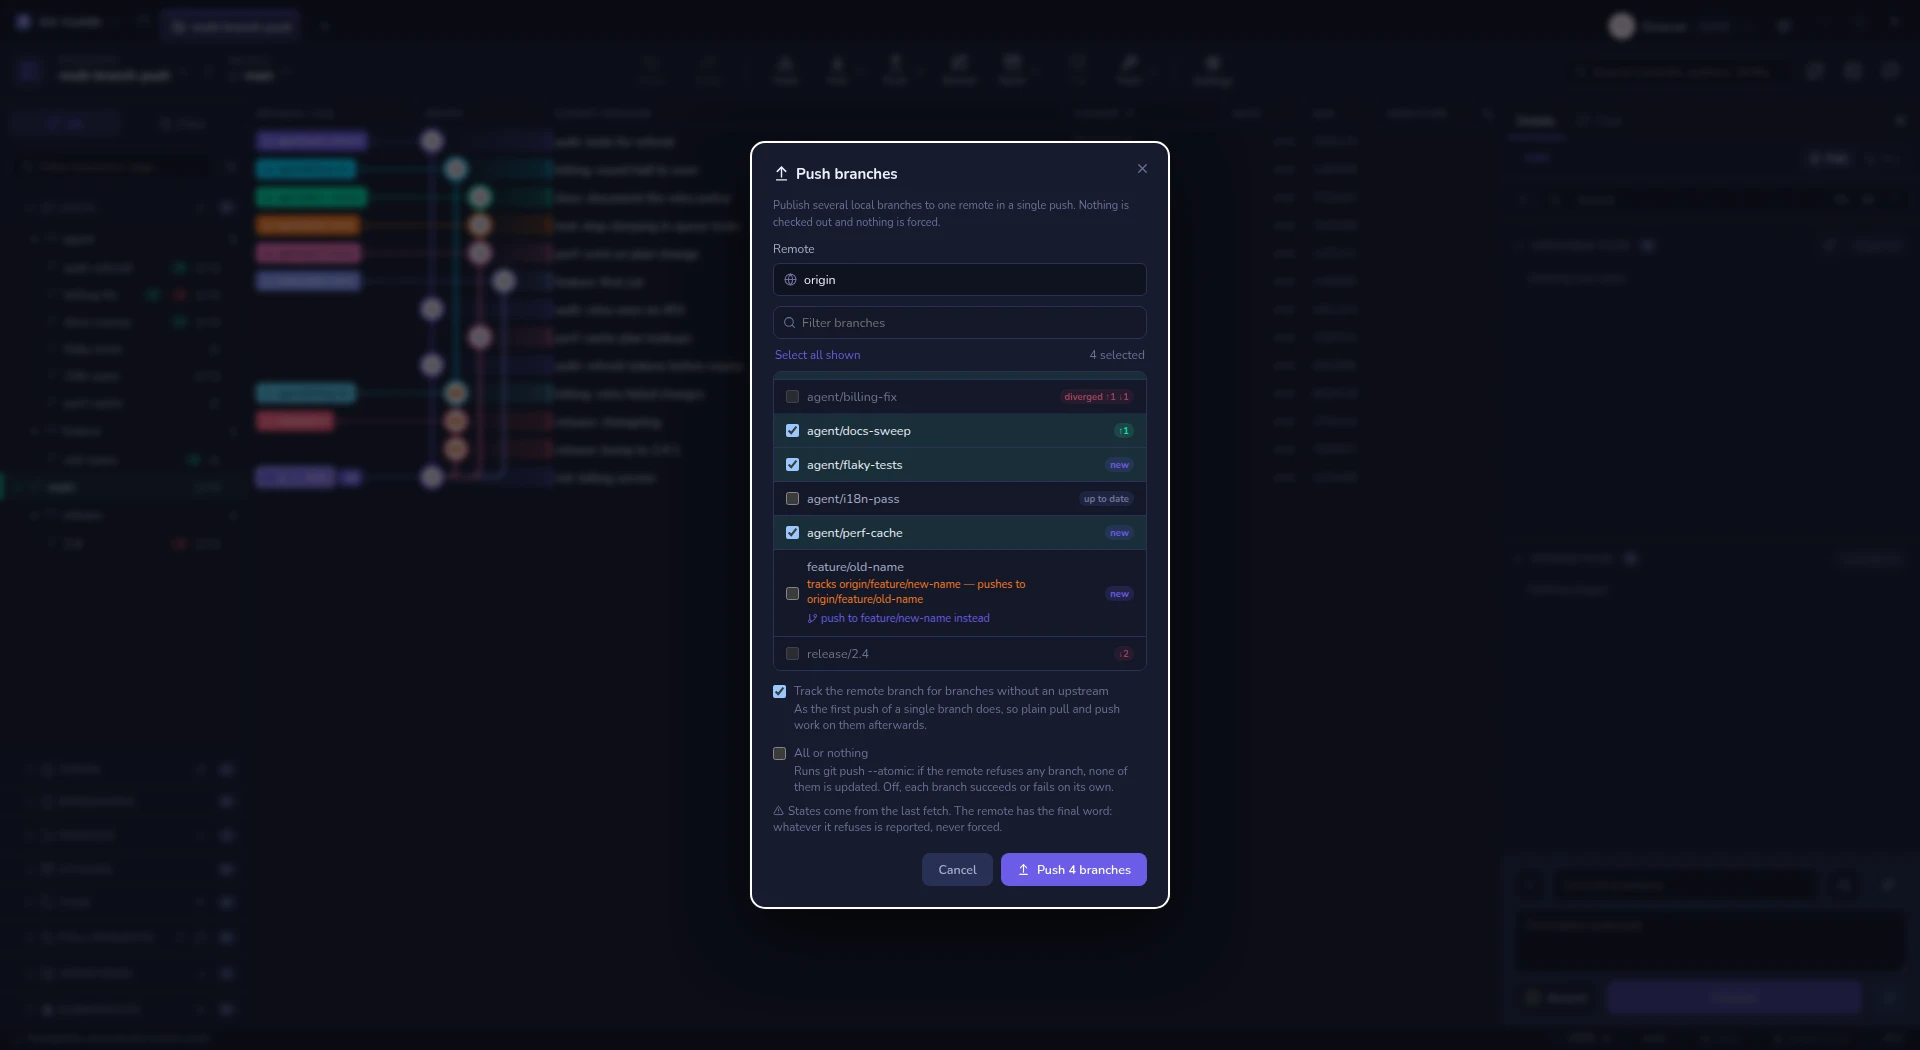
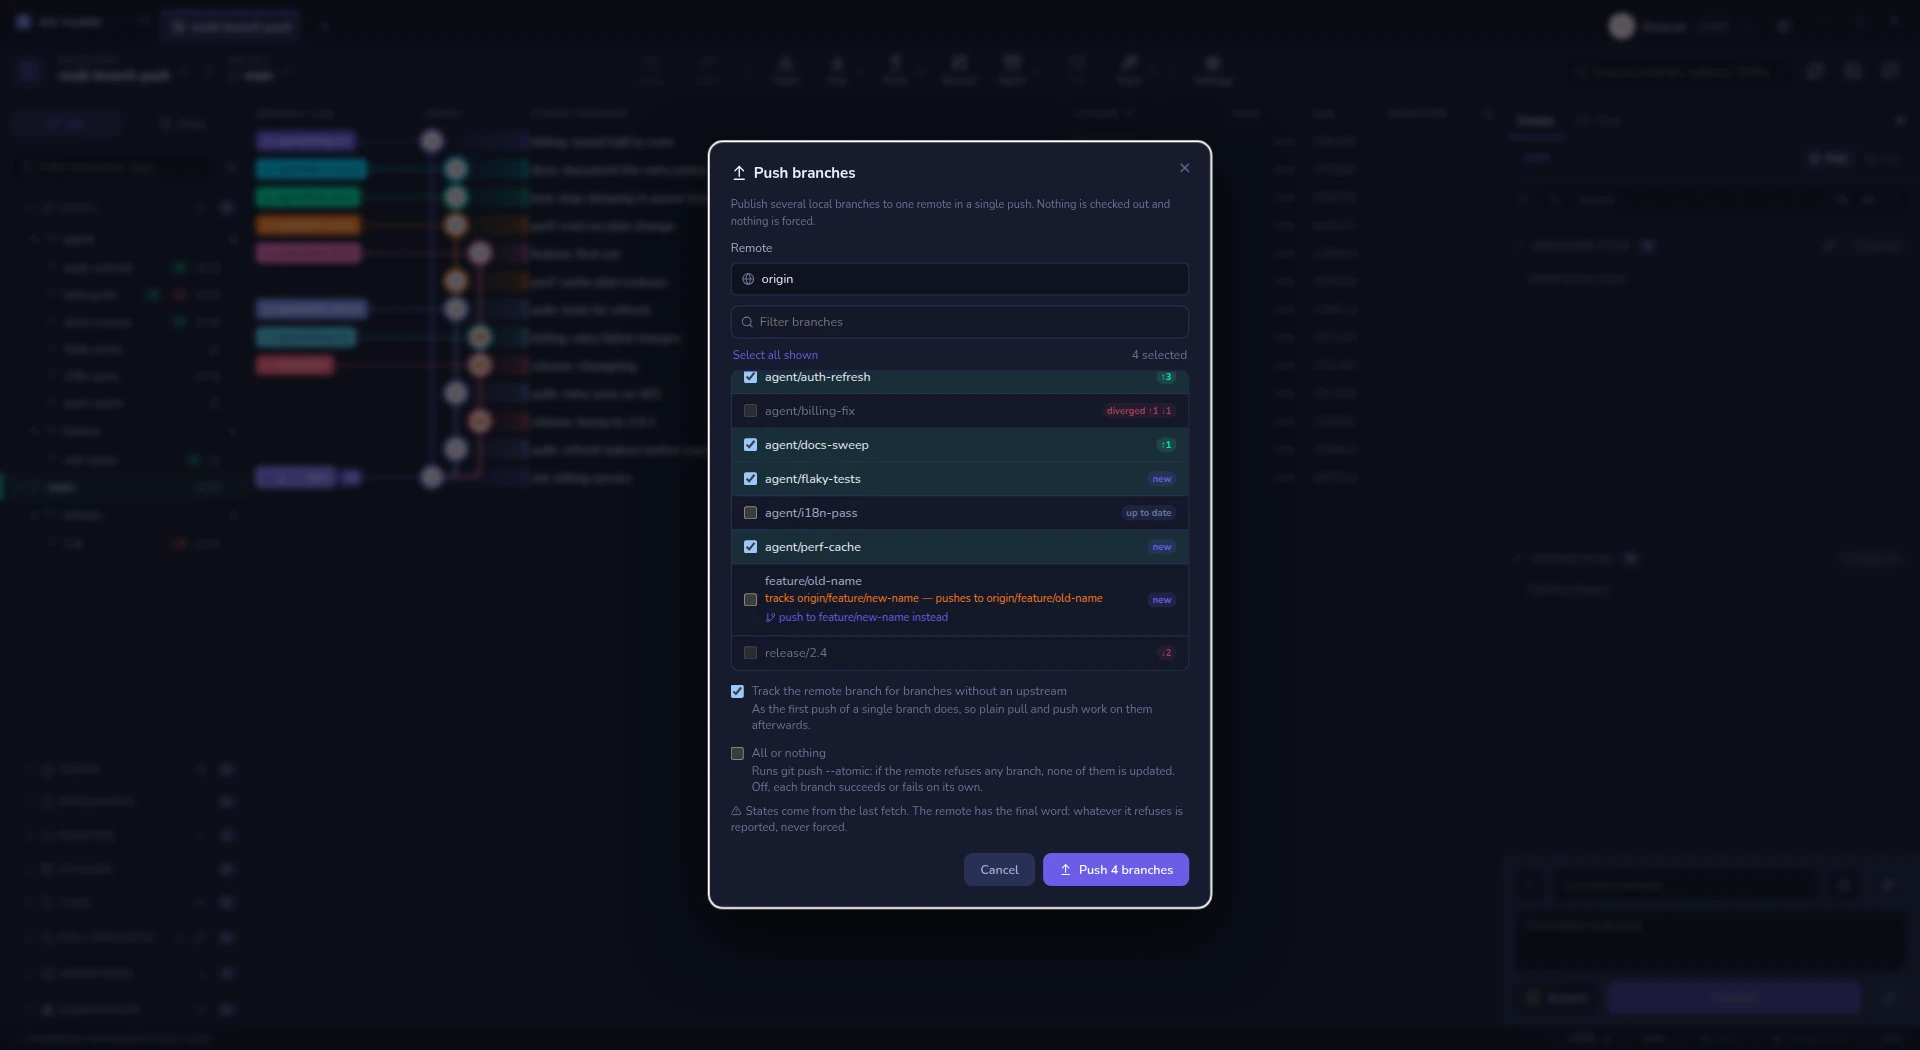
style: widen the push branches dialog by a fifth
Branch names, their state badges and the "tracks origin/…" line now fit
without wrapping. The handbook screenshot is regenerated to match.

Changed region(s): [[0.3438, 0.1219, 0.6562, 0.8838], [0.125, 0.1524, 0.2812, 0.4267], [0.2188, 0.3352, 0.2812, 0.4267]]

diff --git a/src/renderer/src/components/ModalHost.tsx b/src/renderer/src/components/ModalHost.tsx
@@ -2350,6 +2350,8 @@ export function ModalHost(): React.JSX.Element {
               className={`modal ${
                 modal.kind === 'clone'
                   ? 'modal-clone'
+                  : modal.kind === 'push-branches'
+                  ? 'modal-push-branches'
                   : modal.kind === 'settings'
                   ? 'modal-wide modal-settings'
                   : modal.kind === 'ai-config-wizard'

diff --git a/src/renderer/src/styles.css b/src/renderer/src/styles.css
@@ -5734,6 +5734,12 @@ body.col-resizing .node-ava {
   width: 740px;
 }
 
+/* 20% over the default 420px: branch names, their state badges and the
+   "tracks origin/…" line fit without wrapping. */
+.modal-push-branches {
+  width: 504px;
+}
+
 .modal h3 {
   font-size: 15px;
   margin-bottom: 14px;
